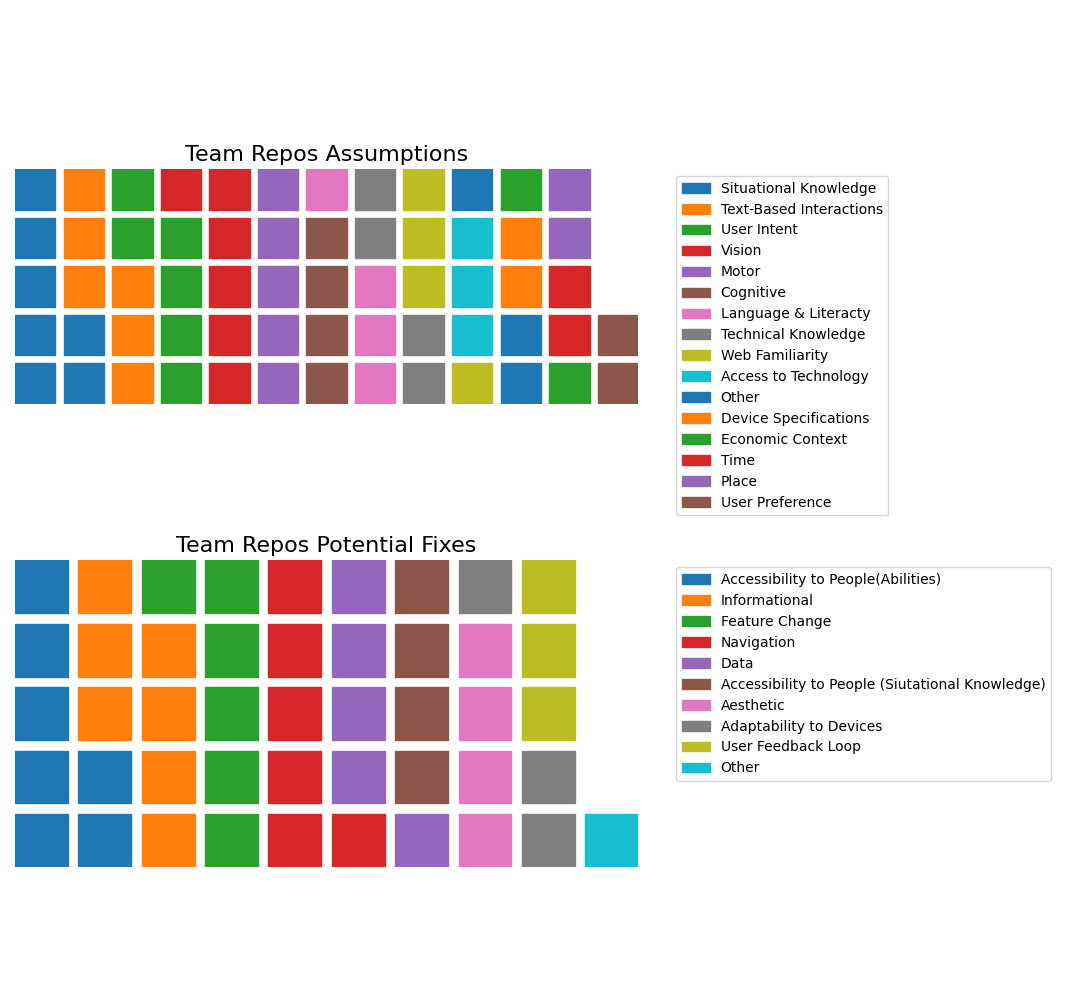
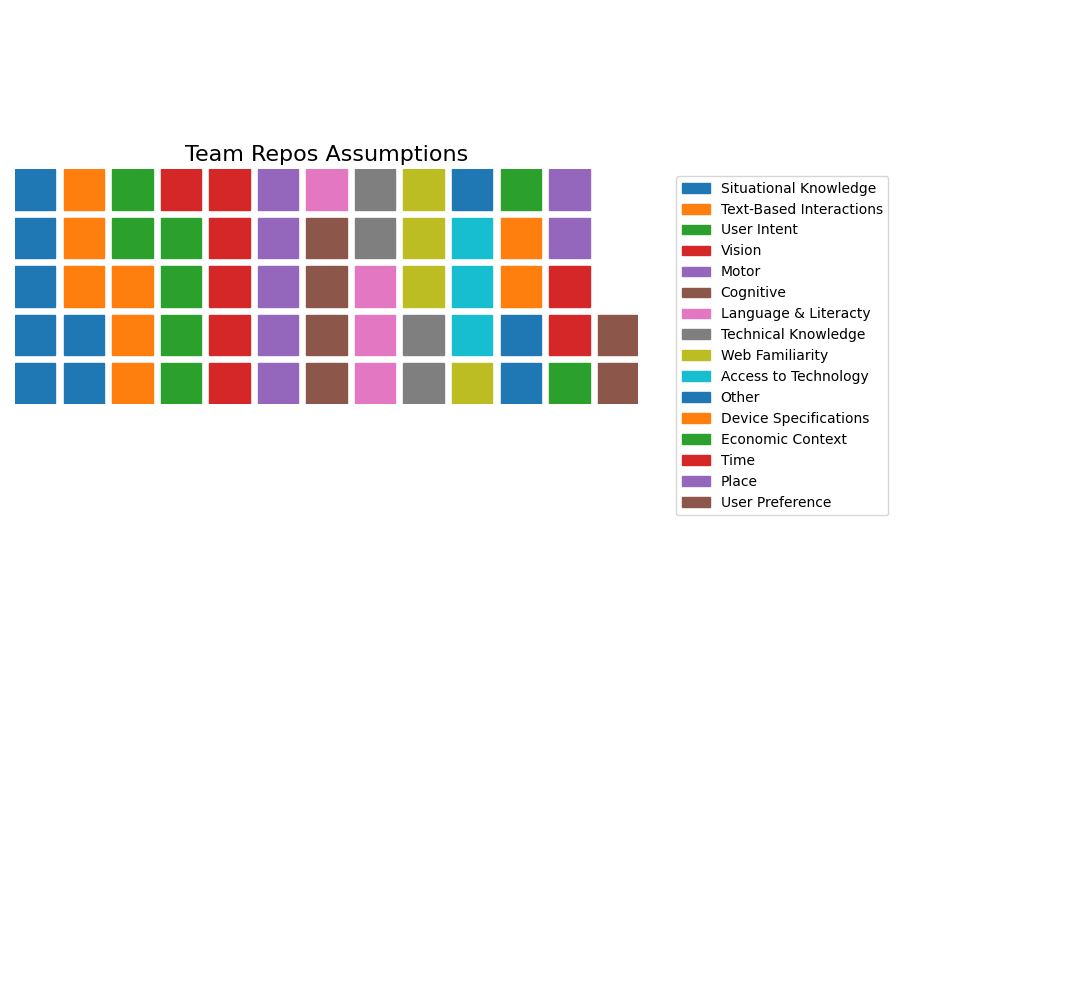
basics of site look and outline are done

Changed region(s): [[0.0, 0.527, 0.6191, 0.868], [0.6191, 0.558, 0.9906, 0.775]]

diff --git a/research.html b/research.html
@@ -98,7 +98,7 @@
             <div class="owl-carousel testimonial-carousel">
                 <div class="testimonial-item">
                     <div class="testimonial-text position-relative bg-secondary text-light rounded p-5 mb-4">
-                        Brief description of what it is and how I have experience.
+                        Quote.
                     </div>
                     <div class="d-flex align-items-center pt-3">
                         <img class="img-fluid rounded-circle" src="img/user.png" style="width: 80px; height: 80px;" alt="">
@@ -109,7 +109,7 @@
                 </div>
                 <div class="testimonial-item">
                     <div class="testimonial-text position-relative bg-secondary text-light rounded p-5 mb-4">
-                        Brief description of what it is and how I have experience.
+                        Quote.
                     </div>
                     <div class="d-flex align-items-center pt-3">
                         <img class="img-fluid rounded-circle" src="img/data.png" style="width: 80px; height: 80px;" alt="">
@@ -212,138 +212,58 @@
     <!--CritCon Results End-->
 
     <!--Classwork Results Start-->
-    
+    <div class="container-fluid py-5">
+        <div class="container py-5">
+            <div class="row">
+                <div class="col-lg-6">
+                    <img class="img-fluid rounded" src="img/unixvim.png" alt="">
+                </div>
+                <div class="col-lg-6">
+                    <img class = "img-fluid rounded" src = "img/TeamRepos.png" alt="">
+                </div>
+            </div>
+                <p>Write a description of results here...</p>
+        </div>
+    </div>
     <!--Classwork Results End-->
 
     <!--Interview Results Start-->
+    <div class="container-fluid py-5">
+        <div class="container py-5">
+            <div class="text-center pb-5">
+                <h6 class="text-uppercase">Interview Results</h6>
+                <h1 class="mb-5">Valuing Marginalized Perspectives From ___ to ____</h1>
+                <p> Throughout the course, students developed their understanding of how to include marginalized perspectives in the design of technology. At the start of the course, they had a general idea of the importance of marginalized perspectives. However, it was not until after software design that they developed concrete strategies to accommodate marginalized groups of people.</p>
+            </div>
+            <div class="owl-carousel testimonial-carousel">
+                <div class="testimonial-item">
+                    <div class="testimonial-text position-relative bg-secondary text-light rounded p-5 mb-4">
+                        Quote.
+                    </div>
+                    <div class="d-flex align-items-center pt-3">
+                        <img class="img-fluid rounded-circle" src="img/user.png" style="width: 80px; height: 80px;" alt="">
+                        <div class="pl-4">
+                            <h5>Womp</h5>
+                        </div>
+                    </div>
+                </div>
+                <div class="testimonial-item">
+                    <div class="testimonial-text position-relative bg-secondary text-light rounded p-5 mb-4">
+                        Quote.
+                    </div>
+                    <div class="d-flex align-items-center pt-3">
+                        <img class="img-fluid rounded-circle" src="img/data.png" style="width: 80px; height: 80px;" alt="">
+                        <div class="pl-4">
+                            <h5>Penguin</h5>
+                        </div>
+                    </div>
+                </div>
+            </div>
+        </div>
+    </div>
 
     <!--Interview Results End-->
 
-    <!-- Team Start -->
-    <div class="container-fluid py-5">
-        <div class="container py-5">
-            <div class="text-center pb-2">
-                <h6 class="text-uppercase">Our Attorneys</h6>
-                <h1 class="mb-4">Meet Our Attorneys</h1>
-            </div>
-            <div class="row">
-                <div class="col-12">
-                    <div class="bg-primary rounded" style="height: 200px;"></div>
-                    <div class="owl-carousel team-carousel position-relative" style="margin-top: -97px; padding: 0 30px;">
-                        <div class="team-item text-center bg-white rounded overflow-hidden pt-4">
-                            <h5 class="mb-2 px-4">Attorney Name</h5>
-                            <p class="mb-3 px-4">Practice Area</p>
-                            <div class="team-img position-relative">
-                                <img class="img-fluid" src="img/team-1.jpg" alt="">
-                                <div class="team-social">
-                                    <a class="btn btn-outline-light btn-square mx-1" href="#"><i class="fab fa-twitter"></i></a>
-                                    <a class="btn btn-outline-light btn-square mx-1" href="#"><i class="fab fa-facebook-f"></i></a>
-                                    <a class="btn btn-outline-light btn-square mx-1" href="#"><i class="fab fa-linkedin-in"></i></a>
-                                </div>
-                            </div>
-                        </div>
-                        <div class="team-item text-center bg-white rounded overflow-hidden pt-4">
-                            <h5 class="mb-2 px-4">Attorney Name</h5>
-                            <p class="mb-3 px-4">Practice Area</p>
-                            <div class="team-img position-relative">
-                                <img class="img-fluid" src="img/team-2.jpg" alt="">
-                                <div class="team-social">
-                                    <a class="btn btn-outline-light btn-square mx-1" href="#"><i class="fab fa-twitter"></i></a>
-                                    <a class="btn btn-outline-light btn-square mx-1" href="#"><i class="fab fa-facebook-f"></i></a>
-                                    <a class="btn btn-outline-light btn-square mx-1" href="#"><i class="fab fa-linkedin-in"></i></a>
-                                </div>
-                            </div>
-                        </div>
-                        <div class="team-item text-center bg-white rounded overflow-hidden pt-4">
-                            <h5 class="mb-2 px-4">Attorney Name</h5>
-                            <p class="mb-3 px-4">Practice Area</p>
-                            <div class="team-img position-relative">
-                                <img class="img-fluid" src="img/team-3.jpg" alt="">
-                                <div class="team-social">
-                                    <a class="btn btn-outline-light btn-square mx-1" href="#"><i class="fab fa-twitter"></i></a>
-                                    <a class="btn btn-outline-light btn-square mx-1" href="#"><i class="fab fa-facebook-f"></i></a>
-                                    <a class="btn btn-outline-light btn-square mx-1" href="#"><i class="fab fa-linkedin-in"></i></a>
-                                </div>
-                            </div>
-                        </div>
-                        <div class="team-item text-center bg-white rounded overflow-hidden pt-4">
-                            <h5 class="mb-2 px-4">Attorney Name</h5>
-                            <p class="mb-3 px-4">Practice Area</p>
-                            <div class="team-img position-relative">
-                                <img class="img-fluid" src="img/team-4.jpg" alt="">
-                                <div class="team-social">
-                                    <a class="btn btn-outline-light btn-square mx-1" href="#"><i class="fab fa-twitter"></i></a>
-                                    <a class="btn btn-outline-light btn-square mx-1" href="#"><i class="fab fa-facebook-f"></i></a>
-                                    <a class="btn btn-outline-light btn-square mx-1" href="#"><i class="fab fa-linkedin-in"></i></a>
-                                </div>
-                            </div>
-                        </div>
-                        <div class="team-item text-center bg-white rounded overflow-hidden pt-4">
-                            <h5 class="mb-2 px-4">Attorney Name</h5>
-                            <p class="mb-3 px-4">Practice Area</p>
-                            <div class="team-img position-relative">
-                                <img class="img-fluid" src="img/team-5.jpg" alt="">
-                                <div class="team-social">
-                                    <a class="btn btn-outline-light btn-square mx-1" href="#"><i class="fab fa-twitter"></i></a>
-                                    <a class="btn btn-outline-light btn-square mx-1" href="#"><i class="fab fa-facebook-f"></i></a>
-                                    <a class="btn btn-outline-light btn-square mx-1" href="#"><i class="fab fa-linkedin-in"></i></a>
-                                </div>
-                            </div>
-                        </div>
-                    </div>
-                </div>
-            </div>
-        </div>
-    </div>
-    <!-- Team End -->
-
-
-    <!-- Features Start -->
-    <div class="container-fluid py-5">
-        <div class="container py-5">
-            <div class="row">
-                <div class="col-lg-6" style="min-height: 500px;">
-                    <div class="position-relative h-100 rounded overflow-hidden">
-                        <img class="position-absolute w-100 h-100" src="img/feature.jpg" style="object-fit: cover;">
-                    </div>
-                </div>
-                <div class="col-lg-6 pt-5 pb-lg-5">
-                    <div class="feature-text bg-white rounded p-lg-5">
-                        <h6 class="text-uppercase">Our Features</h6>
-                        <h1 class="mb-4">Why Choose Us</h1>
-                        <div class="d-flex mb-4">
-                            <div class="btn-primary btn-lg-square px-3" style="border-radius: 50px;">
-                                <h5 class="text-secondary m-0">01</h5>
-                            </div>
-                            <div class="ml-4">
-                                <h5>Best Law Practices</h5>
-                                <p class="m-0">Ipsum duo tempor elitr rebum stet magna amet kasd. Ipsum magna ipsum ipsum stet ipsum</p>
-                            </div>
-                        </div>
-                        <div class="d-flex mb-4">
-                            <div class="btn-primary btn-lg-square px-3" style="border-radius: 50px;">
-                                <h5 class="text-secondary m-0">02</h5>
-                            </div>
-                            <div class="ml-4">
-                                <h5>Efficiency & Trust</h5>
-                                <p class="m-0">Ipsum duo tempor elitr rebum stet magna amet kasd. Ipsum magna ipsum ipsum stet ipsum</p>
-                            </div>
-                        </div>
-                        <div class="d-flex">
-                            <div class="btn-primary btn-lg-square px-3" style="border-radius: 50px;">
-                                <h5 class="text-secondary m-0">03</h5>
-                            </div>
-                            <div class="ml-4">
-                                <h5>Results You Deserve</h5>
-                                <p class="m-0">Ipsum duo tempor elitr rebum stet magna amet kasd. Ipsum magna ipsum ipsum stet ipsum</p>
-                            </div>
-                        </div>
-                    </div>
-                </div>
-            </div>
-        </div>
-    </div>
-    <!-- Features End -->
 
 
     <!-- Footer Start -->

diff --git a/index.html b/index.html
@@ -64,7 +64,7 @@
         <div id="header-carousel" class="carousel slide carousel-fade" data-ride="carousel">
             <div class="carousel-inner">
                 <div class="carousel-item position-relative active" style="height: 70vh; min-height: 300px;">
-                    <img class="position-absolute w-100 h-100" src="img/background.jpg" style="object-fit: cover;">
+                    <img class="position-absolute w-100 h-100" src="img/background2.jpg" style="object-fit: cover;">
                     <div class="carousel-caption d-flex flex-column align-items-center justify-content-center">
                         <div class="p-3" style="max-width: 900px;">
                             <h4 class="text-white text-uppercase mb-4" style="letter-spacing: 3px;">Hi!</h4>
@@ -73,11 +73,10 @@
                     </div>
                 </div>
                 <div class="carousel-item position-relative" style="height: 70vh; min-height: 300px;">
-                    <img class="position-absolute w-100 h-100" src="img/background2.jpg" style="object-fit: cover;">
+                    <img class="position-absolute w-100 h-100" src="img/background.jpg" style="object-fit: cover;">
                     <div class="carousel-caption d-flex flex-column align-items-center justify-content-center">
                         <div class="p-3" style="max-width: 900px;">
-                            <h4 class="text-white text-uppercase mb-4" style="letter-spacing: 3px;">Hi!</h4>
-                            <h3 class="display-2 text-capitalize text-white mb-4">I am Aurelia</h3>
+                            <h3 class="display-2 text-capitalize text-white mb-4">I am a CS & Stats Double Major</h3>
                         </div>
                     </div>
                 </div>
